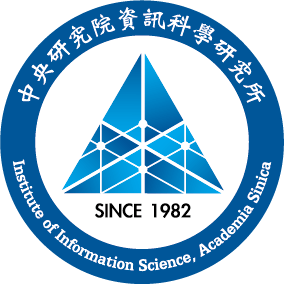
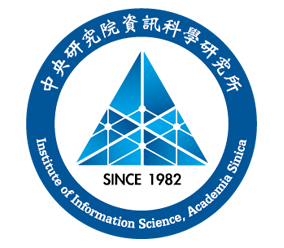
更改 9/4 系列活動主辦單位

diff --git a/event/step-by-step-r/index.php b/event/step-by-step-r/index.php
@@ -9,24 +9,25 @@ $date_string = date('Y/n/j', $event_date) . ' (' . $weekdays[date('w', $event_da
 $location_string = '中央研究院人文社會科學館 第二會議室';
 
 $kktix_link = 'step-by-step-r';
-$kktix_date = strtotime('2015-08-15 12:00:00');
-$reg_date = strtotime('2016-08-17 12:00:00');
+$kktix_date = strtotime('2016-08-14 12:00:00');
+$reg_date = strtotime('2016-08-16 12:00:00');
 $reg_time = '中午 12:00';
-$deadline = strtotime('2016-08-25 12:00:00');
+$deadline = strtotime('2016-08-22 12:00:00');
 $price = 2480;
 // $ticket_full = true;
 
 $about = array(
 	'title' => '手把手教你 R 語言資料分析實務',
 	'content' => array(
-    '在此課程中，兩位老師將帶領對資料分析稍微有點陌生卻又充滿興趣的您，完整地學會運用 R 語言從自己寫爬蟲蒐集資料、進行探索性分析解讀資料，到真正建構解釋與預測模型，發現那些肉眼看不見隱藏在資料底下的意義。',
-    '此課程主要設計給對於 R 語言有基本認識，想要進一步熟悉實作分析的朋友們，希望在課程結束後，您能夠更熟悉 R 語言這個豐富分析工具：了解如何解析網頁、熟悉 xpath 語法，撰寫爬蟲自動化收集資訊 ( RCurl, xml )；取得資料後靈活使用熱門的套件 ( data.table, dplyr )，提高資料清洗及整合的效率；利用現成的套件進行文字探勘、文本解析 ( jiebaR, text2vec )；更重要的是最終能夠從資料中找出不分析就不會輕易發現的意義。我們透過蘋果日報慈善捐款的公開資料，帶著大家實際走一回資料分析的歷程，一步步處理、觀察、解構資料，試著看看究竟是什麼原因在不經意中影響了人們在做捐款的決策過程，以及這些結果又是如何從資料中挖掘而出的呢？')
+    '在此課程中將帶領對資料分析感到陌生卻又充滿興趣的您，完整地學會運用 R 語言從最初的蒐集資料、探索性分析解讀資料，並進行文字探勘，發現那些肉眼看不見、隱藏在資料底下的意義。',
+    '此課程主要設計給對於 R 語言有基本認識，想要進一步熟悉實作分析的朋友們，希望在課程結束後，您能夠更熟悉 R 語言這個豐富的分析工具。透過蘋果日報慈善捐款的資料集，了解如何從頭解析網頁、熟悉 xpath 語法，撰寫爬蟲自動化收集資訊；取得資料後，能夠靈活處理資料，做清洗、整合及探索；並利用現成的套件進行文字探勘、文本解析；我們將一步步實際走一回資料分析的歷程，處理、觀察、解構資料，試著看看人們在捐款的決策過程中，究竟是什麼因素產生了影響，以及這些結果又是如何從資料中挖掘而出的呢？')
 );
 
 $content = array(
 	'學員基本要求' => array(
-		'本課程針對對 R 語言有基本認識但想更進一步擁有實務經驗的夥伴們。我們將一步一步帶領著您寫出程式。但若對 R 為零經驗的朋友們，也可以先透過 R 語言基礎自學教材 <a href="http://swirlstats.com/">swirl</a> 練習基本操作，再來參加我們的分析實務教學。',
-        '因為是會手把手地教您寫出實用的程式，當然需要帶筆記型電腦來參加囉！請先將 <a href="https://cran.r-project.org/">R 3.2</a> 以上的版本安裝起來。'
+        '本課程針對對 R 語言有基本認識但想更進一步擁有實務經驗的夥伴們。若您 <a href="http://datascienceandr.org/">R 語言翻轉教室</a> 的內容都熟悉了，卻苦無實戰機會，最適合來和我們一起實作練習。',
+        '請先將 <a href="https://cran.r-project.org/">R 3.2</a> 以上的版本安裝起來，課堂上會在 RStudio 的環境下講解，建議也可先安裝好，但非必須。',
+        '因為會是手把手地實際操作，當然需要帶筆記型電腦來參加囉！'
 	),
 	'退票須知' => array(
         '本活動委由 <a href="https://kktix.com/" target="_blank">KKTIX</a> 代為處理退票退款事宜。',
@@ -37,13 +38,13 @@ $content = array(
 
 $schedule = array(
 	'9:00 - 9:30' => array('title' => '報到'),
-	'9:30 - 11:00' => array('title' => '爬蟲是什麼？好吃嗎？','subtitle' => '自製網路爬蟲蒐集資料'),
-	'11:00 - 11:20' => array('title' => '茶點時間'),
-	'11:20 - 12:50' => array('title' => '資料礦工的一天：','subtitle' => '探索式資料解析'),
-	'12:50 - 13:40' => array('title' => '午餐'),
-	'13:40 - 15:10' => array('title' => '名模生死鬥：','subtitle' => '建構解釋與預測模型'),
-	'15:10 - 15:30' => array('title' => '茶點時間'),
-	'15:30 - 17:00' => array('title' => '那些資料告訴我們 ( 與沒告訴我們 ) 的事'),
+	'9:30 - 10:30' => array('title' => '自製網路爬蟲蒐集資料'),
+	'10:30 - 10:50' => array('title' => '茶點時間'),
+	'10:50 - 12:30' => array('title' => '探索式資料解析'),
+	'12:30 - 13:20' => array('title' => '午餐'),
+	'13:20 - 15:00' => array('title' => '文字探勘與文本解析'),
+	'15:00 - 15:20' => array('title' => '茶點時間'),
+	'15:20 - 17:00' => array('title' => '建構解釋與預測模型')
 );
 
 $speakers = array(
@@ -57,28 +58,23 @@ $speakers = array(
 			'中央研究院資訊科學研究所 / 研究助理',
 		),
 		'info' => array(
-			'清大材料所畢，學生時期受的是微觀層級的訓練，後來到傳統產業當 PM，做的卻都是巨型產品；每天都比昨天更明白資源的有限，想盡辦法維持動態平衡。現栽入資料海裡載浮載沉，學著觀測人類行為的同時，也藉以修剪自己的偏見謬誤。覺得一切事物都關乎設計，希望世界的冗餘或浪費降到最低。推理迷，不喜歡沒有謎題的故事，也很愛玩拼圖；唯一不可或缺的是音樂，最近都在聽山形瑞秋的歌。',
+			'清大材料所畢，學生時期受的是微觀層級的訓練，後來到傳統產業當 PM，做的卻都是巨型產品；每天都比昨天更明白資源的有限，想盡辦法維持動態平衡。現栽入資料海裡載浮載沉，學著觀測人類行為的同時，也藉以修剪自己的偏見謬誤。覺得一切事物都關乎設計，希望世界的冗餘或浪費降到最低。推理迷，不喜歡沒有謎題的故事，也很愛玩拼圖；唯一不可或缺的是音樂，最近都在聽 Brett Dennen 的歌。',
 		),
 	),
 );
-
 $team = array(
-	'主辦單位' => array(
-		array(
-			'name' => '台灣資料科學年會',
-			'href' => 'http://datasci.tw/',
-			'image' => 'dsc2016_logo_fb.png',
-		), array(
-			'name' => '中華民國計算語言學學會',
-			'href' => 'http://www.aclclp.org.tw/index_c.php',
-			'image' => 'aclclp.png',
-		),
-		array(
-			'name' => '中央研究院資訊科學研究所',
-			'href' => 'http://www.iis.sinica.edu.tw/',
-			'image' => 'iis_s.png',
-		),
-	),
+    '主辦單位' => array(
+        array(
+            'name' => '台灣資料科學協會',
+            'href' => 'http://datasci.tw/',
+            'image' => '台灣資料科學協會.png'
+        ),
+        array(
+            'name' => '中央研究院資訊科學研究所',
+            'href' => 'http://www.iis.sinica.edu.tw/',
+            'image' => 'iis_s.png'
+        )
+    ),
 );
 ?>
 
@@ -90,14 +86,14 @@ $team = array(
 <html class="no-js">
     <!--<![endif]-->
     <head>
-        <title><?php echo $title ?> - 2016 台灣資料科學年會系列活動</title>
+        <title><?php echo $title ?> - 台灣資料科學年會系列活動</title>
         <meta charset="utf-8">
         <!--[if IE]>
             <meta http-equiv="X-UA-Compatible" content="IE=edge">
         <![endif]-->
         <meta name="description" content="<?php echo $title ?>">
         <meta name="viewport" content="width=device-width, initial-scale=1">
-        <meta content="<?php echo $title ?> - 2016 台灣資料科學年會" property="og:title">
+        <meta content="<?php echo $title ?> - 台灣資料科學年會系列活動" property="og:title">
         <meta content="website" property="og:type">
         <meta content="<?php echo $title ?>" property="og:description">
         <meta content="http://datasci.tw<?php echo $_SERVER['REQUEST_URI']; ?>" property="og:url">
@@ -105,7 +101,7 @@ $team = array(
         <meta content="image/png" property="og:image:type">
         <meta content="600" property="og:image:width">
         <meta content="400" property="og:image:height">
-        <meta content="<?php echo $title ?> - 2016 台灣資料科學年會系列活動" property="og:site_name">
+        <meta content="2016 台灣資料科學年會" property="og:site_name">
         <!-- Place favicon.ico and apple-touch-icon.png in the root directory -->
         <link rel="stylesheet" href="../_css/bootstrap.min.css">
         <link rel="stylesheet" href="../_css/main.css">
@@ -145,7 +141,7 @@ $team = array(
                                     <i class="fa fa-map-marker"></i> 地點: 中央研究院人文社會科學館 第二會議室
                                 </h4>
                             </div>
-                            <a href="/"style="position:absolute;top:0px;left:4%;display:block;width:24%;height:50%;background-color:transparent;"></a>
+                            <a href="/event/"style="position:absolute;top:0px;left:4%;display:block;width:24%;height:50%;background-color:transparent;"></a>
                         </div>
                     </div>
                 </div>

diff --git a/event/engineer-statistics/index.php b/event/engineer-statistics/index.php
@@ -9,10 +9,10 @@ $date_string = date('Y/n/j', $event_date) . ' (' . $weekdays[date('w', $event_da
 $location_string = '中央研究院人文社會科學館 國際會議廳';
 
 $kktix_link = 'engineer-statistics';
-$kktix_date = strtotime('2015-08-15 12:00:00');
-$reg_date = strtotime('2016-08-17 12:00:00');
+$kktix_date = strtotime('2016-08-14 12:00:00');
+$reg_date = strtotime('2016-08-16 12:00:00');
 $reg_time = '中午 12:00';
-$deadline = strtotime('2016-08-25 12:00:00');
+$deadline = strtotime('2016-08-22 12:00:00');
 $price = 1980;
 // $ticket_full = true;
 
@@ -44,13 +44,13 @@ $content = array(
 
 $schedule = array(
 	'9:00 - 9:30' => array('title' => '報到'),
-	'9:30 - 11:00' => array('title' => '貓都嫌簡單的資料摘要與視覺化'),
-	'11:00 - 11:20' => array('title' => '茶點時間'),
-	'11:20 - 12:50' => array('title' => '假設檢定與一點都不神秘的 p 值'),
-	'12:50 - 13:40' => array('title' => '午餐'),
-	'13:40 - 15:10' => array('title' => '讓你一秒看起來像專家的迴歸分析'),
-	'15:10 - 15:30' => array('title' => '茶點時間'),
-	'15:30 - 17:00' => array('title' => '想當然爾的綜合應用與案例研討'),
+	'9:30 - 10:30' => array('title' => '貓都嫌簡單的資料摘要與視覺化'),
+	'10:30 - 10:50' => array('title' => '茶點時間'),
+	'10:50 - 12:30' => array('title' => '假設檢定與一點都不神秘的 p 值'),
+	'12:30 - 13:20' => array('title' => '午餐'),
+	'13:20 - 15:00' => array('title' => '讓你一秒看起來像專家的迴歸分析'),
+	'15:00 - 15:20' => array('title' => '茶點時間'),
+	'15:20 - 17:00' => array('title' => '想當然爾的綜合應用與案例研討'),
 );
 
 $speakers = array(
@@ -72,19 +72,15 @@ $speakers = array(
 $team = array(
 	'主辦單位' => array(
 		array(
-			'name' => '台灣資料科學年會',
+			'name' => '台灣資料科學協會',
 			'href' => 'http://datasci.tw/',
-			'image' => 'dsc2016_logo_fb.png',
-		), array(
-			'name' => '中華民國計算語言學學會',
-			'href' => 'http://www.aclclp.org.tw/index_c.php',
-			'image' => 'aclclp.png',
+			'image' => '台灣資料科學協會.png'
 		),
 		array(
 			'name' => '中央研究院資訊科學研究所',
 			'href' => 'http://www.iis.sinica.edu.tw/',
-			'image' => 'iis_s.png',
-		),
+			'image' => 'iis_s.png'
+		)
 	),
 );
 ?>
@@ -97,14 +93,14 @@ $team = array(
 <html class="no-js">
     <!--<![endif]-->
     <head>
-        <title><?php echo $title ?> - 2016 台灣資料科學年會系列活動</title>
+        <title><?php echo $title ?> - 台灣資料科學年會系列活動</title>
         <meta charset="utf-8">
         <!--[if IE]>
             <meta http-equiv="X-UA-Compatible" content="IE=edge">
         <![endif]-->
         <meta name="description" content="<?php echo $title ?>">
         <meta name="viewport" content="width=device-width, initial-scale=1">
-        <meta content="<?php echo $title ?> - 2016 台灣資料科學年會" property="og:title">
+        <meta content="<?php echo $title ?> - 台灣資料科學年會系列活動" property="og:title">
         <meta content="website" property="og:type">
         <meta content="<?php echo $title ?>" property="og:description">
         <meta content="http://datasci.tw<?php echo $_SERVER['REQUEST_URI']; ?>" property="og:url">
@@ -112,7 +108,7 @@ $team = array(
         <meta content="image/png" property="og:image:type">
         <meta content="600" property="og:image:width">
         <meta content="400" property="og:image:height">
-        <meta content="<?php echo $title ?> - 2016 台灣資料科學年會系列活動" property="og:site_name">
+        <meta content="2016 台灣資料科學年會" property="og:site_name">
         <!-- Place favicon.ico and apple-touch-icon.png in the root directory -->
         <link rel="stylesheet" href="../_css/bootstrap.min.css">
         <link rel="stylesheet" href="../_css/main.css">
@@ -152,7 +148,7 @@ $team = array(
                                     <i class="fa fa-map-marker"></i> 地點: 中央研究院人文社會科學館 國際會議室
                                 </h4>
                             </div>
-                            <a href="/"style="position:absolute;top:0px;left:4%;display:block;width:24%;height:50%;background-color:transparent;"></a>
+                            <a href="/event/"style="position:absolute;top:0px;left:4%;display:block;width:24%;height:50%;background-color:transparent;"></a>
                         </div>
                     </div>
                 </div>
